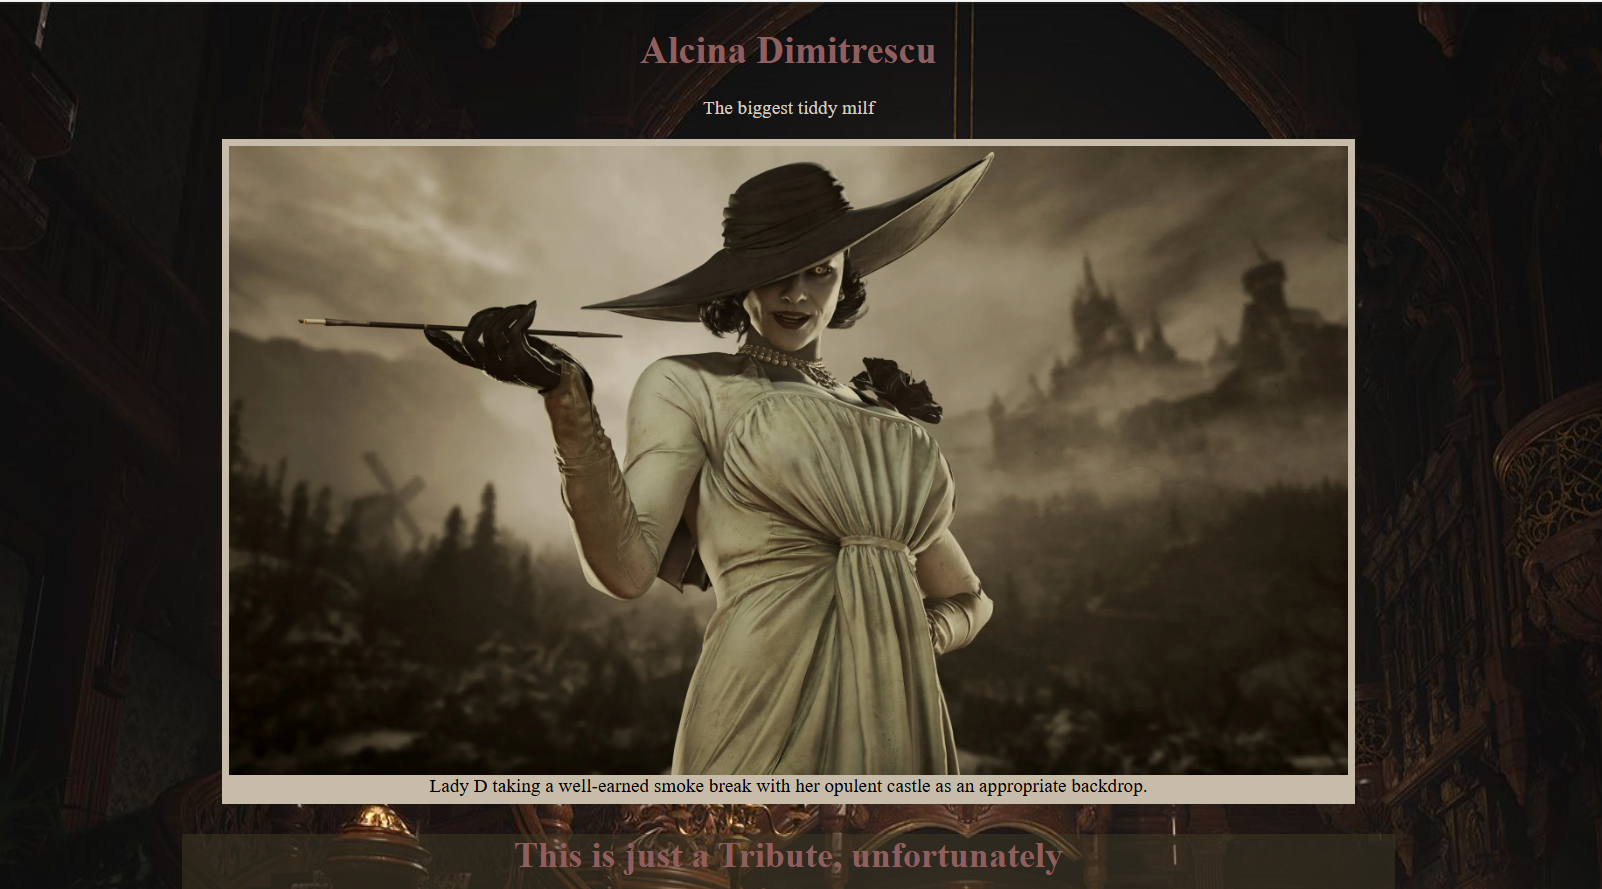
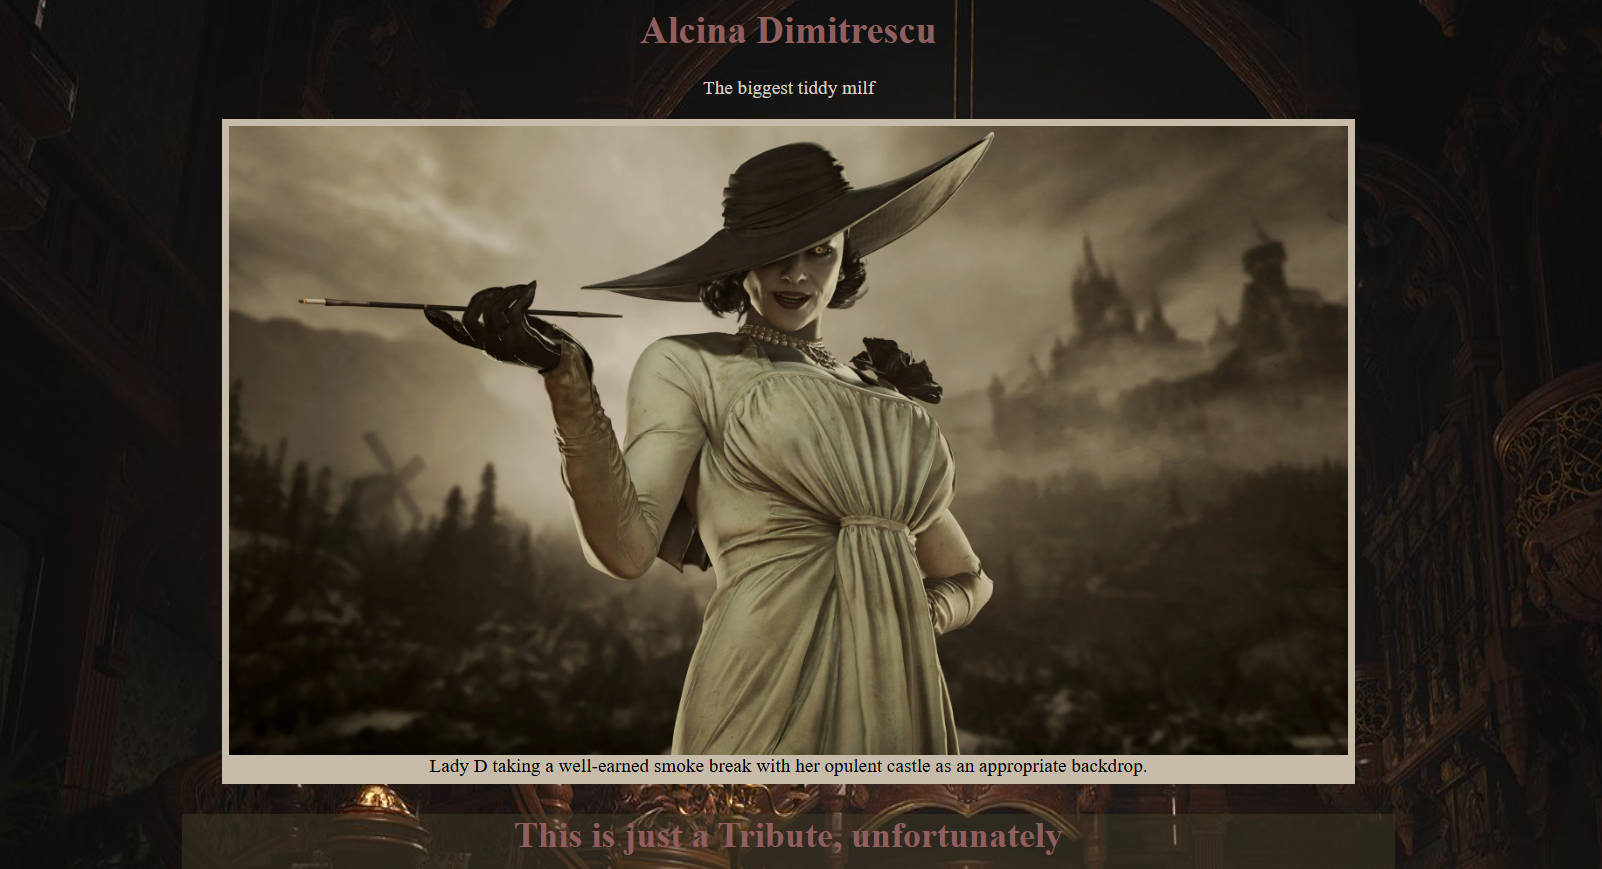
toggle tagline and about

diff --git a/index.html b/index.html
@@ -3,6 +3,7 @@
 <head>
     <meta charset="UTF-8">
     <link rel="stylesheet" type="text/css" href="styles.css">
+    <script src="script.js"></script>
     <meta name="viewport" content="width=device-width, initial-scale=1.0">
     <title>Document</title>
 </head>
@@ -10,7 +11,7 @@
     <div class="navbar">
             
                 <a href="#projects" class="links" id="portfolio">Portfolio</a>
-                <li class="links" id="about">About</li>
+                <button class="links" id="about" onclick="replaceElement()">About</button>
                 <li class="links" id="contact">Contact</li>
                 
            
@@ -18,6 +19,8 @@
     </div>
     <div class="banner">
         <p id="tagline">Hi, I'm Jack, of all trades.</p>
+      
+    
         <img src="me.JPG" id="pfpic"></img>
         
     </div>
@@ -43,7 +46,7 @@
     </div>
 
 
-        <h1>About</h1>
+        <h1 id="aboutSection">About</h1>
         
            <div class="textarea"><div class="text">i’m sorry to hear that your grandma passed away I 
                 actually am like obviously i’m gonna be upset about that innit yeah but hadiqah you know 
@@ -54,7 +57,9 @@
 
     <div class="footer">
 
-    </div>
+   </div>
+
+     
 
 
 </body>

diff --git a/script.js b/script.js
@@ -1,0 +1,29 @@
+function replaceElement() {
+    const tagline = document.getElementById('tagline');
+    const banner = document.querySelector('.banner');
+
+    const longMessage = `<h2>About</h2>I’m sorry to hear that your grandma passed away I
+    actually am like obviously I’m gonna be upset about
+    that innit yeah but hadiqah you know the only thing
+    is no one can force me to be your mate or anything yeah
+    and I don’t wanna be mates with you orite
+    `;
+
+    const originalText = "Hi, I'm Jack, of all trades.";
+
+    const isLong = tagline.innerHTML.startsWith("<h2>About</h2>");
+
+    if (!isLong) {
+        tagline.innerHTML = longMessage;
+        tagline.style.fontSize = "1rem";
+        tagline.style.width = "19.5em";
+        tagline.style.display = "block";
+
+
+        banner.classList.add("expanded");
+    } else {
+        tagline.innerHTML = originalText;
+        tagline.style.fontSize = "";
+        tagline.style.width = "";
+    }
+}

diff --git a/styles.css b/styles.css
@@ -7,16 +7,23 @@
     padding-top: 1em;
     padding-bottom: 1em;
     background-color: black;
-    color: whitesmoke;
     border-bottom: 1px solid whitesmoke;
-    font-size: 1.5rem;
+    
 }
 
 * {margin: 0px;}
 
 .links {padding-right: 3em;
         text-decoration: none;
-        color: rgb(220, 220, 220);}
+        color: rgb(220, 220, 220);
+        border: none;
+        background: none;
+        font-size: 1.5rem;
+        font-family:'Lucida Sans Unicode', 'Lucida Grande', 'Lucida Sans', Arial, sans-serif;
+        cursor: pointer;
+        }
+
+
 
 #tagline {
         
@@ -138,6 +145,12 @@ h1{
     text-align: center;
     padding-bottom: 2em;
 }
+
+.banner.expanded {
+    height: 42em;
+}
+
+h2 {padding: 1em;}
 
     #pfpic{
         justify-self: center;
